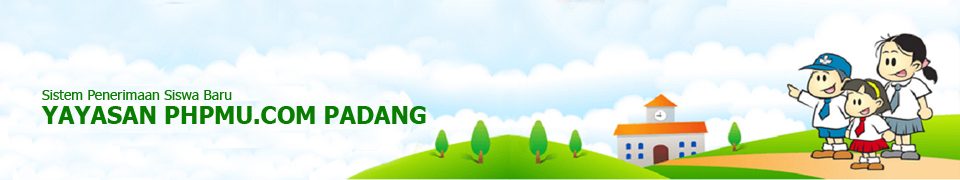
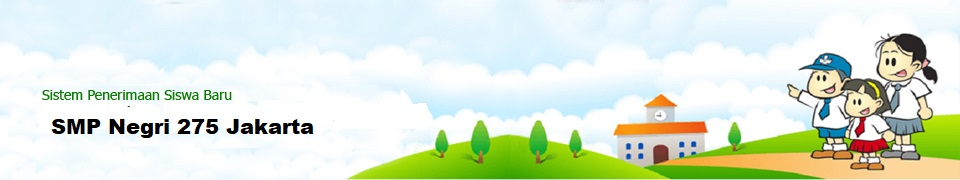
add curl & modif PSB

diff --git a/application/sms/sms.php b/application/sms/sms.php
@@ -1,29 +1,15 @@
-<?php
-    echo "<form method='POST' class='form-horizontal' action='' enctype='multipart/form-data'>
+<form method='POST' class='form-horizontal' action='' enctype='multipart/form-data'>
             <div class='col-md-12'>
               <div class='box box-info'>
                 <div class='box-header with-border'>
                   <h3 class='box-title'>Kirimkan Pesan Singkat (SMS)</h3>
                 </div>
-              <div class='box-body'>";
-              		if (isset($_POST[kirim])){
-						$hasil = mysql_query("INSERT INTO rb_sms VALUES('','$_POST[a]','$_POST[b]')");
-						if ($hasil){
-							echo "<div class='alert alert-success alert-dismissible fade in' role='alert'> 
-									<button type='button' class='close' data-dismiss='alert' aria-label='Close'>
-									<span aria-hidden='true'>×</span></button> <strong>Success!</strong> - Pesan SMS ke $_POST[a] Telah dikirim,...
-								  </div>";
-						}else{
-							echo "<center style='color:red; padding:15px 0px'>Pengiriman SMS gagal,...</center>";
-						}
-					}
-                echo "
-
+              <div class='box-body'>
 
                 <table class='table table-condensed table-bordered'>
                   <tbody>
                   	<tr><th width=120px scope='row'>No Telpon</th>  <td><input type='number' class='form-control' name='a' style='width:30%' placeholder='Input No Telpon...' required></td></tr>
-                    <tr><th scope='row'>Isi Pesan</th>           	<td><textarea rows='6' class='form-control' name='b' placeholder='Tuliskan Pesan anda (Max 160 Karakter)...' onKeyDown=\"textCounter(this.form.b,this.form.countDisplay);\" onKeyUp=\"textCounter(this.form.b,this.form.countDisplay);\" required></textarea>
+                    <tr><th scope='row'>Isi Pesan</th> <td><textarea rows='6' class='form-control' name='b' placeholder='Tuliskan Pesan anda (Max 160 Karakter)...' onKeyDown=\"textCounter(this.form.b,this.form.countDisplay);\" onKeyUp=\"textCounter(this.form.b,this.form.countDisplay);\" required></textarea>
                     													<input type='number' name='countDisplay' size='3' maxlength='3' value='160' style='width:10%; text-align:center' readonly> Sisa Karakter</td></tr>
                   </tbody>
                   </table>
@@ -34,4 +20,48 @@
                     <button type='reset' class='btn btn-default pull-right'>Reset</button>
               </div>
             </div>
-          </form>";
+          </form>
+
+<?php
+
+if(isset($_POST['kirim'])) {
+$to = $_POST['a'];
+$msg = $_POST['b'];
+
+$newkirim = sendsms($to, $msg);
+    if($newkirim =="success"){
+
+    echo "done";
+    } else {
+    echo "failed";
+
+  }
+
+}
+
+function sendsms($to,$msg){
+  //init SMS gateway, look at android SMS gateway
+  $idmesin="1191";
+  $pin="123";
+  
+  // create curl resource
+  $ch = curl_init();
+  
+  // set url
+  curl_setopt($ch, CURLOPT_URL, "https://sms.indositus.com/sendsms.php?idmesin=$idmesin&pin=$pin&to=$to&text=$msg");
+  
+  //return the transfer as a string
+  curl_setopt($ch, CURLOPT_RETURNTRANSFER, 1);
+
+
+  curl_setopt($ch, CURLOPT_SSL_VERYFYHOST,0);
+  curl_setopt($ch, CURLOPT_SSL_VERYFYHOST,0);
+
+  // $output contains the output string
+  $output = curl_exec($ch);
+  
+  // close curl resource to free up system resources
+  curl_close($ch);
+
+  return($output);
+  }

diff --git a/psb/index.php b/psb/index.php
@@ -15,7 +15,7 @@ include "config/class_paging.php";
     <meta name="description" content="">
     <meta name="author" content="">
     <link rel="icon" href="favicon.ico">
-    <title>Sistem Penerimaan Siswa Baru - Dedukasi Edukasi Kualiva (DEK) Padang</title>
+    <title>Sistem Penerimaan Siswa Baru - Dedukasi Edukasi Kualiva (DEK) Jakarta</title>
     <link href="asset/css/bootstrap.min.css" rel="stylesheet">
     <link href="asset/css/style.css" rel="stylesheet">
     <link href="asset/css/datepicker.css" rel="stylesheet">
@@ -89,7 +89,7 @@ include "config/class_paging.php";
             <div class="row">
                     <p class="footer" style="text-align:center">
                       Copyright © <?php echo date('Y'); ?> Sistem Penerimaan Siswa Baru<br>
-                      Develop by : <a href="http://phpmu.com">Robby Prihandaya</a>
+                      <!-- Develop by : <a href="http://phpmu.com">Robby Prihandaya</a> -->
                     </p>
             </div>
         </div>

diff --git a/print-siswa.php b/print-siswa.php
@@ -60,8 +60,8 @@ $frt = mysql_fetch_array(mysql_query("SELECT * FROM rb_header_print ORDER BY id_
 <table border=0 width=100%>
   <tr>
     <td width="260" align="left">Orang Tua / Wali</td>
-    <td width="520"align="center">Mengetahui <br> Kepala SMA Negeri 1 Padang</td>
-    <td width="260" align="left">Padang, <?php echo tgl_raport(date("Y-m-d")); ?> <br> Wali Kelas</td>
+    <td width="520"align="center">Mengetahui <br> Kepala SMP Negeri 275 Jakarta</td>
+    <td width="260" align="left">Jakarta, <?php echo tgl_raport(date("Y-m-d")); ?> <br> Wali Kelas</td>
   </tr>
   <tr>
     <td align="left"><br /><br /><br /><br /><br />

diff --git a/psb/sidebar.php b/psb/sidebar.php
@@ -11,7 +11,5 @@
 
           <div class="list-group">
             <a href="#" class="list-group-item active">Pendaftaran Siswa Baru</a>
-            <a href="#" data-toggle="modal" data-target="#kode" class="list-group-item">PSB Sekolah Menengah Kejuruan</a>
-            <a href="#" data-toggle="modal" data-target="#kode" class="list-group-item">PSB Sekolah Menengah Atas</a>
             <a href="#" data-toggle="modal" data-target="#kode" class="list-group-item">PSB Sekolah Menengah Pertama</a>
           </div>
